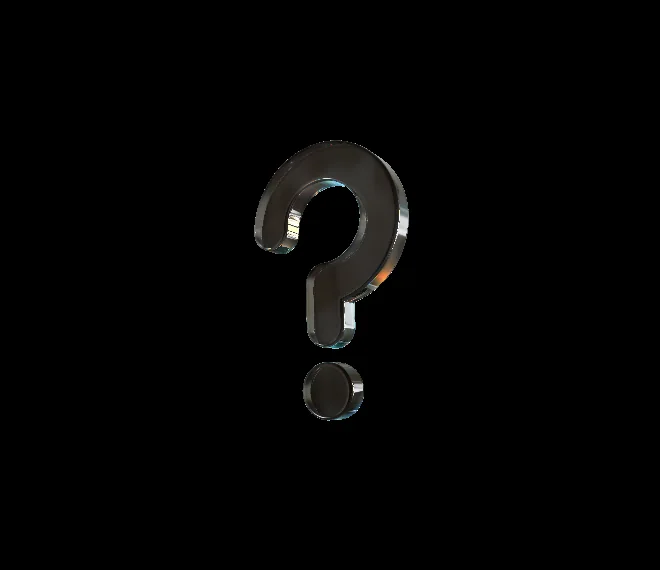
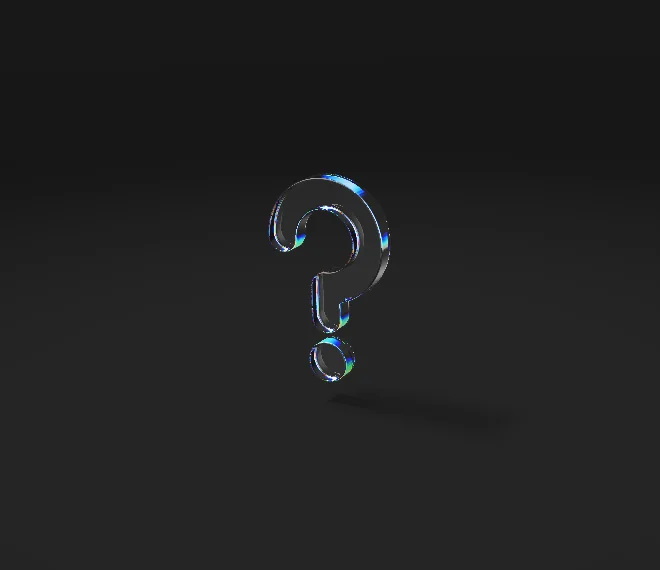
feat(bubble): melt, shatter, jelly and weave on the new glass and studio
Every glass mode except installing now uses the studio glass. glass_baseline
against main: these four change as intended, installing hashes identically on
both backdrops, static stays within the known one-pixel noise.

- Weave and shatter: 28° lens, camera -18° from above, distance 9.3 and 10
  (shatter's fragments fly outward).
- Melt: distance 10.5 at -15° so the whole drip fits. Its drops fall about
  0.6 below the ice; the floor from the drop sweep sits where they shrink
  away, so they read as landing and soaking in.
- Jelly: the RAY beam overrides go with the old looks. The bounce lands on
  the floor because the floor is the lowest point of the shape over the
  loop; distance 7.8 so the top of the hop stays in frame.
- Single-page panel: the edge-drop rows are relabelled 液滴分佈／大小／流速
  so they no longer clash with the main 水滴大小.
- Posters regenerated for the four modes.

Performance (Chrome, Metal, timer queries, high-tier median over six phases):
melt 22.6 ms vs 13.3 ms on main (eight drops plus micro drops, all in the
shadow and bounce traces), low tier 6.8 ms; shatter 12.6 vs 11.3; jelly
12.0 vs 12.5; weave 11.1 vs 12.0. Adaptive quality covers melt's high tier.
Transparent export checked for melt and jelly.

diff --git a/bubble/motions/registry.js b/bubble/motions/registry.js
@@ -658,6 +658,7 @@ export const MOTIONS = {
   },
   weave: {
     label: '穿梭環繞 Weave',
+    studioGlass: true,
     uniform: 3,
     usesShapeField: true,
     gate: 'weave',
@@ -667,9 +668,16 @@ export const MOTIONS = {
     loopDuration: 12,
     dolly: false,
     svgDemo: 'question',
+    overrides: {
+      ...STUDIO_GLASS_OVERRIDES,
+      // 構圖同形狀匯聚（見那邊的說明）。
+      cameraDistance: 9.3,
+      cameraRotationX: -18,
+    },
   },
   melt: {
     label: '融化 Melt',
+    studioGlass: true,
     // 2 是已移除的「脈動呼吸」留下的空號，正好補上。
     uniform: 2,
     usesShapeField: true,
@@ -692,6 +700,11 @@ export const MOTIONS = {
     // 調整過、流速歸零（融化的水滴已經有自己的滴落動畫，輪廓液滴只負責
     // 靜態鑲邊，動起來反而互相干擾）。
     overrides: {
+      ...STUDIO_GLASS_OVERRIDES,
+      // 構圖同形狀匯聚。水滴會往下掉一大段（地板落在水滴縮到消失的那個高度，
+      // 見 bubble.js 的 sweepDropLowest），鏡頭拉遠一點才裝得下整段。
+      cameraDistance: 10.5,
+      cameraRotationX: -15,
       shapeDepth: 0.28,
       shapeEdgeBevel: 0.129,
       edgeDropsEnabled: true,
@@ -730,6 +743,7 @@ export const MOTIONS = {
   },
   jelly: {
     label: '果凍 Jelly',
+    studioGlass: true,
     uniform: 6,
     usesShapeField: true,
     gate: 'jelly',
@@ -744,21 +758,20 @@ export const MOTIONS = {
     svgDemo: 'question',
     // 厚實圓潤才像一塊果凍；薄片擠出被壓扁時看起來是紙在抖，不是膠體在晃。
     overrides: {
+      ...STUDIO_GLASS_OVERRIDES,
       shapeDepth: 0.14,
       shapeEdgeBevel: 0.051,
-      materialStyle: 'universal',
-      rayBeamIntensity: 13.5,
-      rayBeamSeparation: 0.065,
-      rayBeamChroma: 1.3,
-      rayBeamZoom: 5,
-      spectralCausticEnabled: false,
-      cameraDistance: 3.7,
-      cameraRotationX: 9.4,
+      // 舊的 45.6°、距離 3.7 換成 28° 是 6.2，再往後退到 7.8：落地彈跳跳到最高點時
+      // 頂部會出畫面。從上方看才看得到地板；落地彈跳的地板就是它落地的那一面
+      // （造型整段循環的最低點）。
+      cameraDistance: 7.8,
+      cameraRotationX: -18,
       cameraRotationY: 27.9,
     },
   },
   shatter: {
     label: '崩解噴濺 Shatter',
+    studioGlass: true,
     uniform: 4,
     usesShapeField: true,
     gate: 'shatter',
@@ -772,6 +785,12 @@ export const MOTIONS = {
     loopDuration: 4,
     dolly: false,
     svgDemo: 'question',
+    overrides: {
+      ...STUDIO_GLASS_OVERRIDES,
+      // 構圖同形狀匯聚；碎片往外飛，距離多留一點。
+      cameraDistance: 10,
+      cameraRotationX: -18,
+    },
   },
   capillary: {
     label: '毛細波 Capillary Wave', uniform: 7, usesShapeField: true, gate: 'capillary',

diff --git a/bubble/inspector.js b/bubble/inspector.js
@@ -1125,6 +1125,10 @@ export function buildInspector({ defaults, modeDefault = () => undefined, launch
       ]);
       if (dropsGate) drops.dataset.gate = dropsGate;
       if ($('edgeDropGroup')) drops.append($('edgeDropGroup'));
+      // 輪廓液滴那三列跟主水滴擠在同一區，舊名「水滴大小」會跟上面那根撞名。
+      relabel('shapeLiquidPosition', '液滴分佈');
+      relabel('shapeLiquidSize', '液滴大小');
+      relabel('shapeLiquidSpeed', '液滴流速');
     }
   }
 }

diff --git a/bubble/bubble.js b/bubble/bubble.js
@@ -1,6 +1,6 @@
 'use strict';
 import * as THREE from 'three';
-import { buildInspector } from './inspector.js?v=studio-glass-4';
+import { buildInspector } from './inspector.js?v=studio-glass-5';
 import { createAdaptiveQuality, QUALITY_TIER_NAMES } from './adaptive-quality.js?v=2';
 import { createGpuProfiler } from './gpu-profiler.js?v=1';
 let inspector = null;
